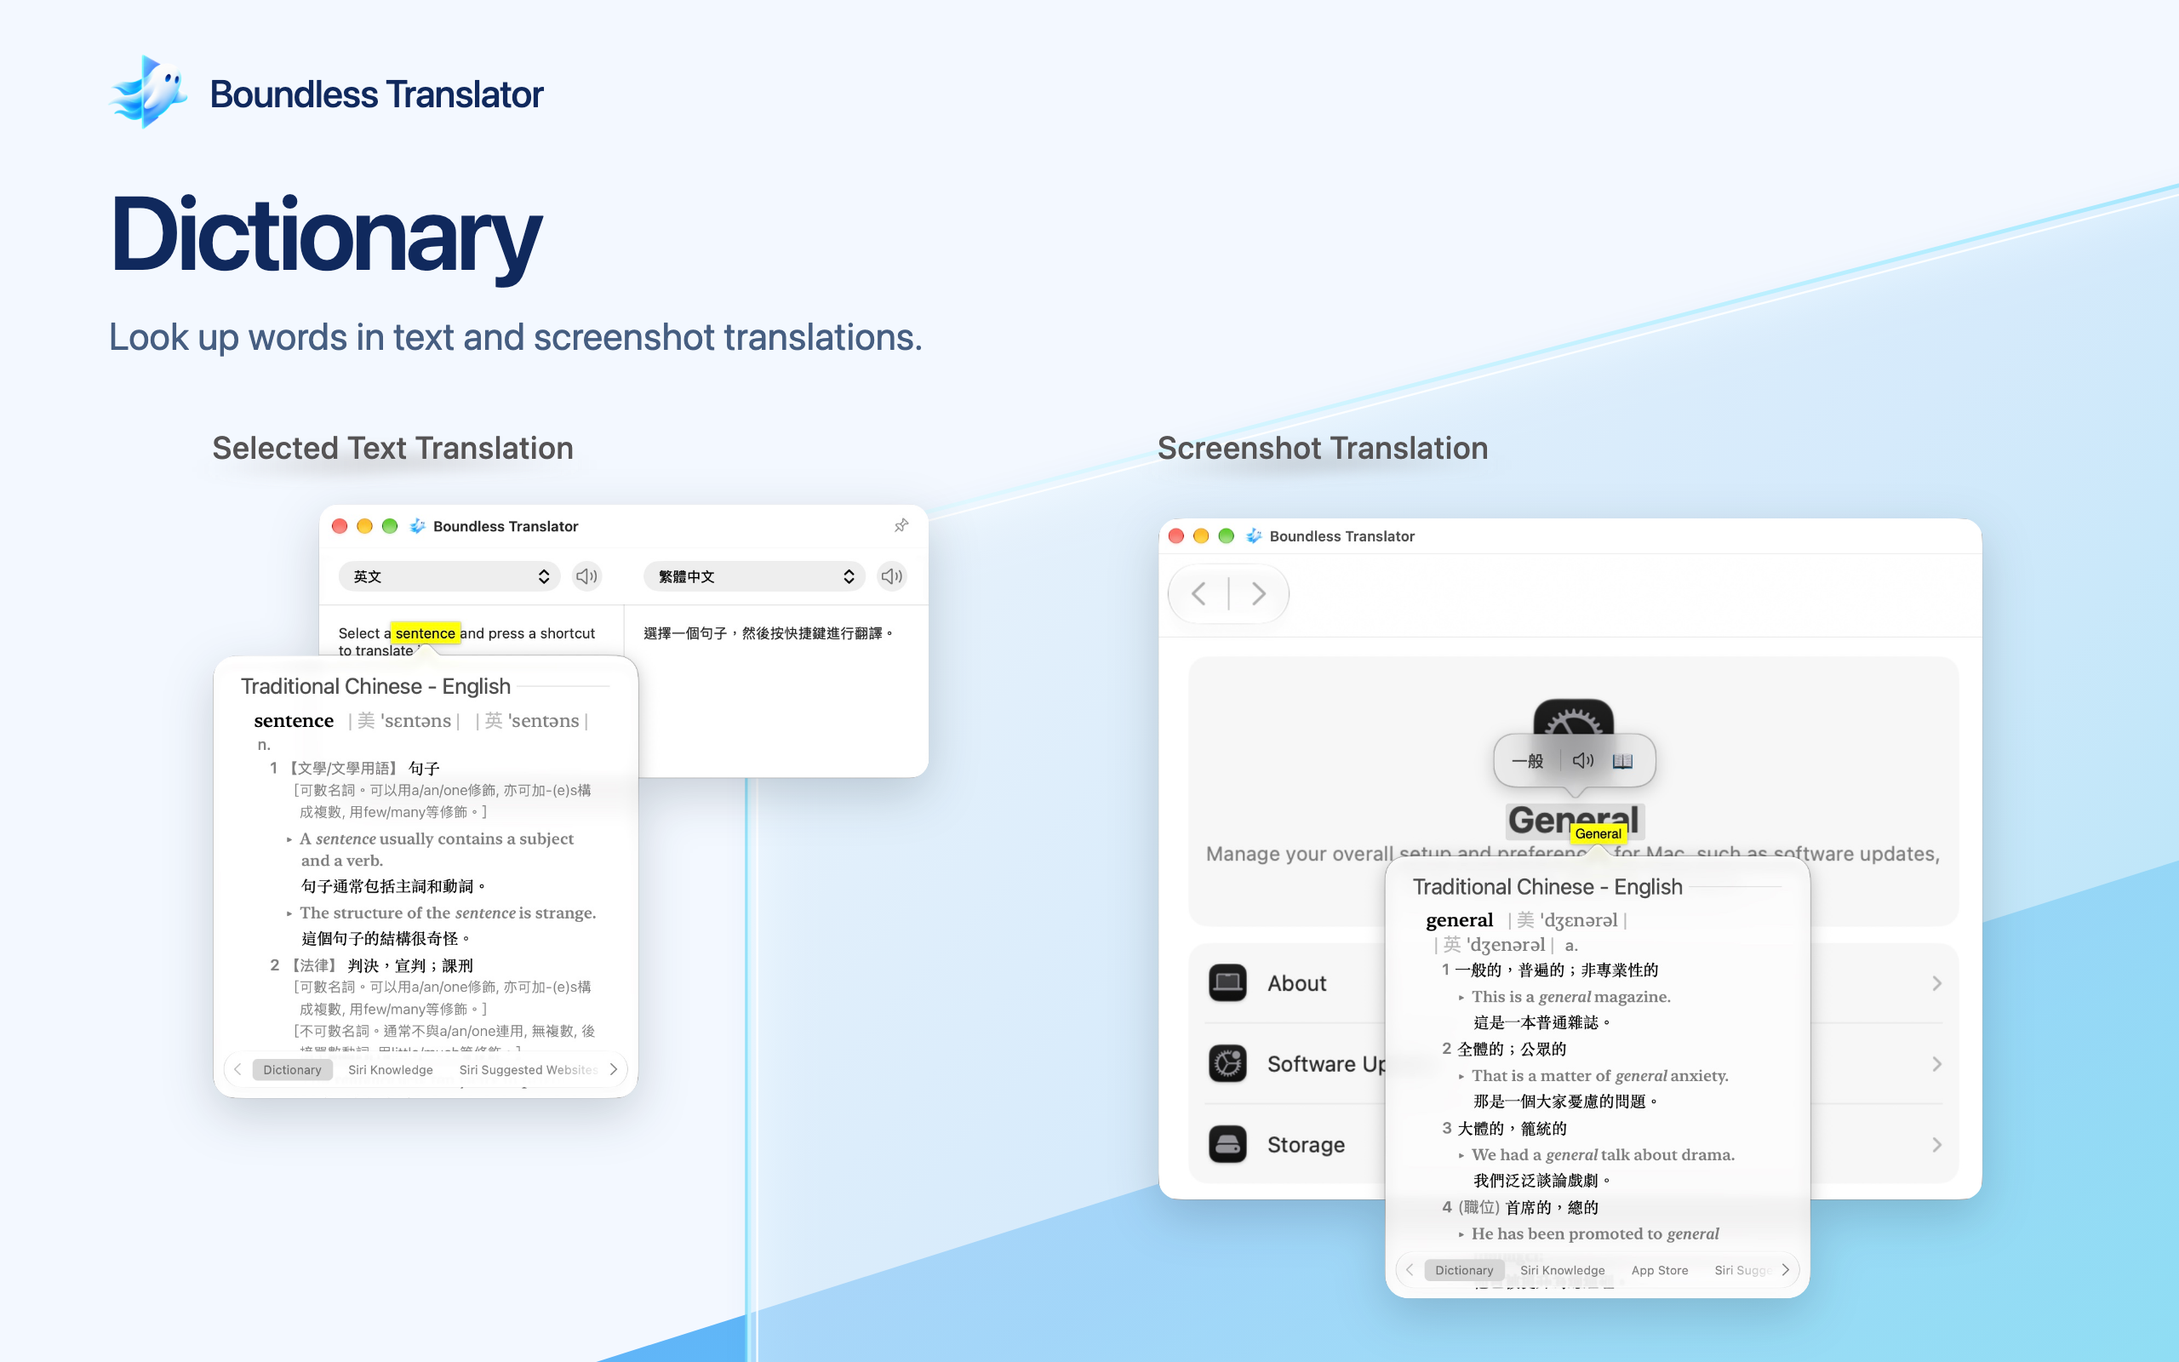
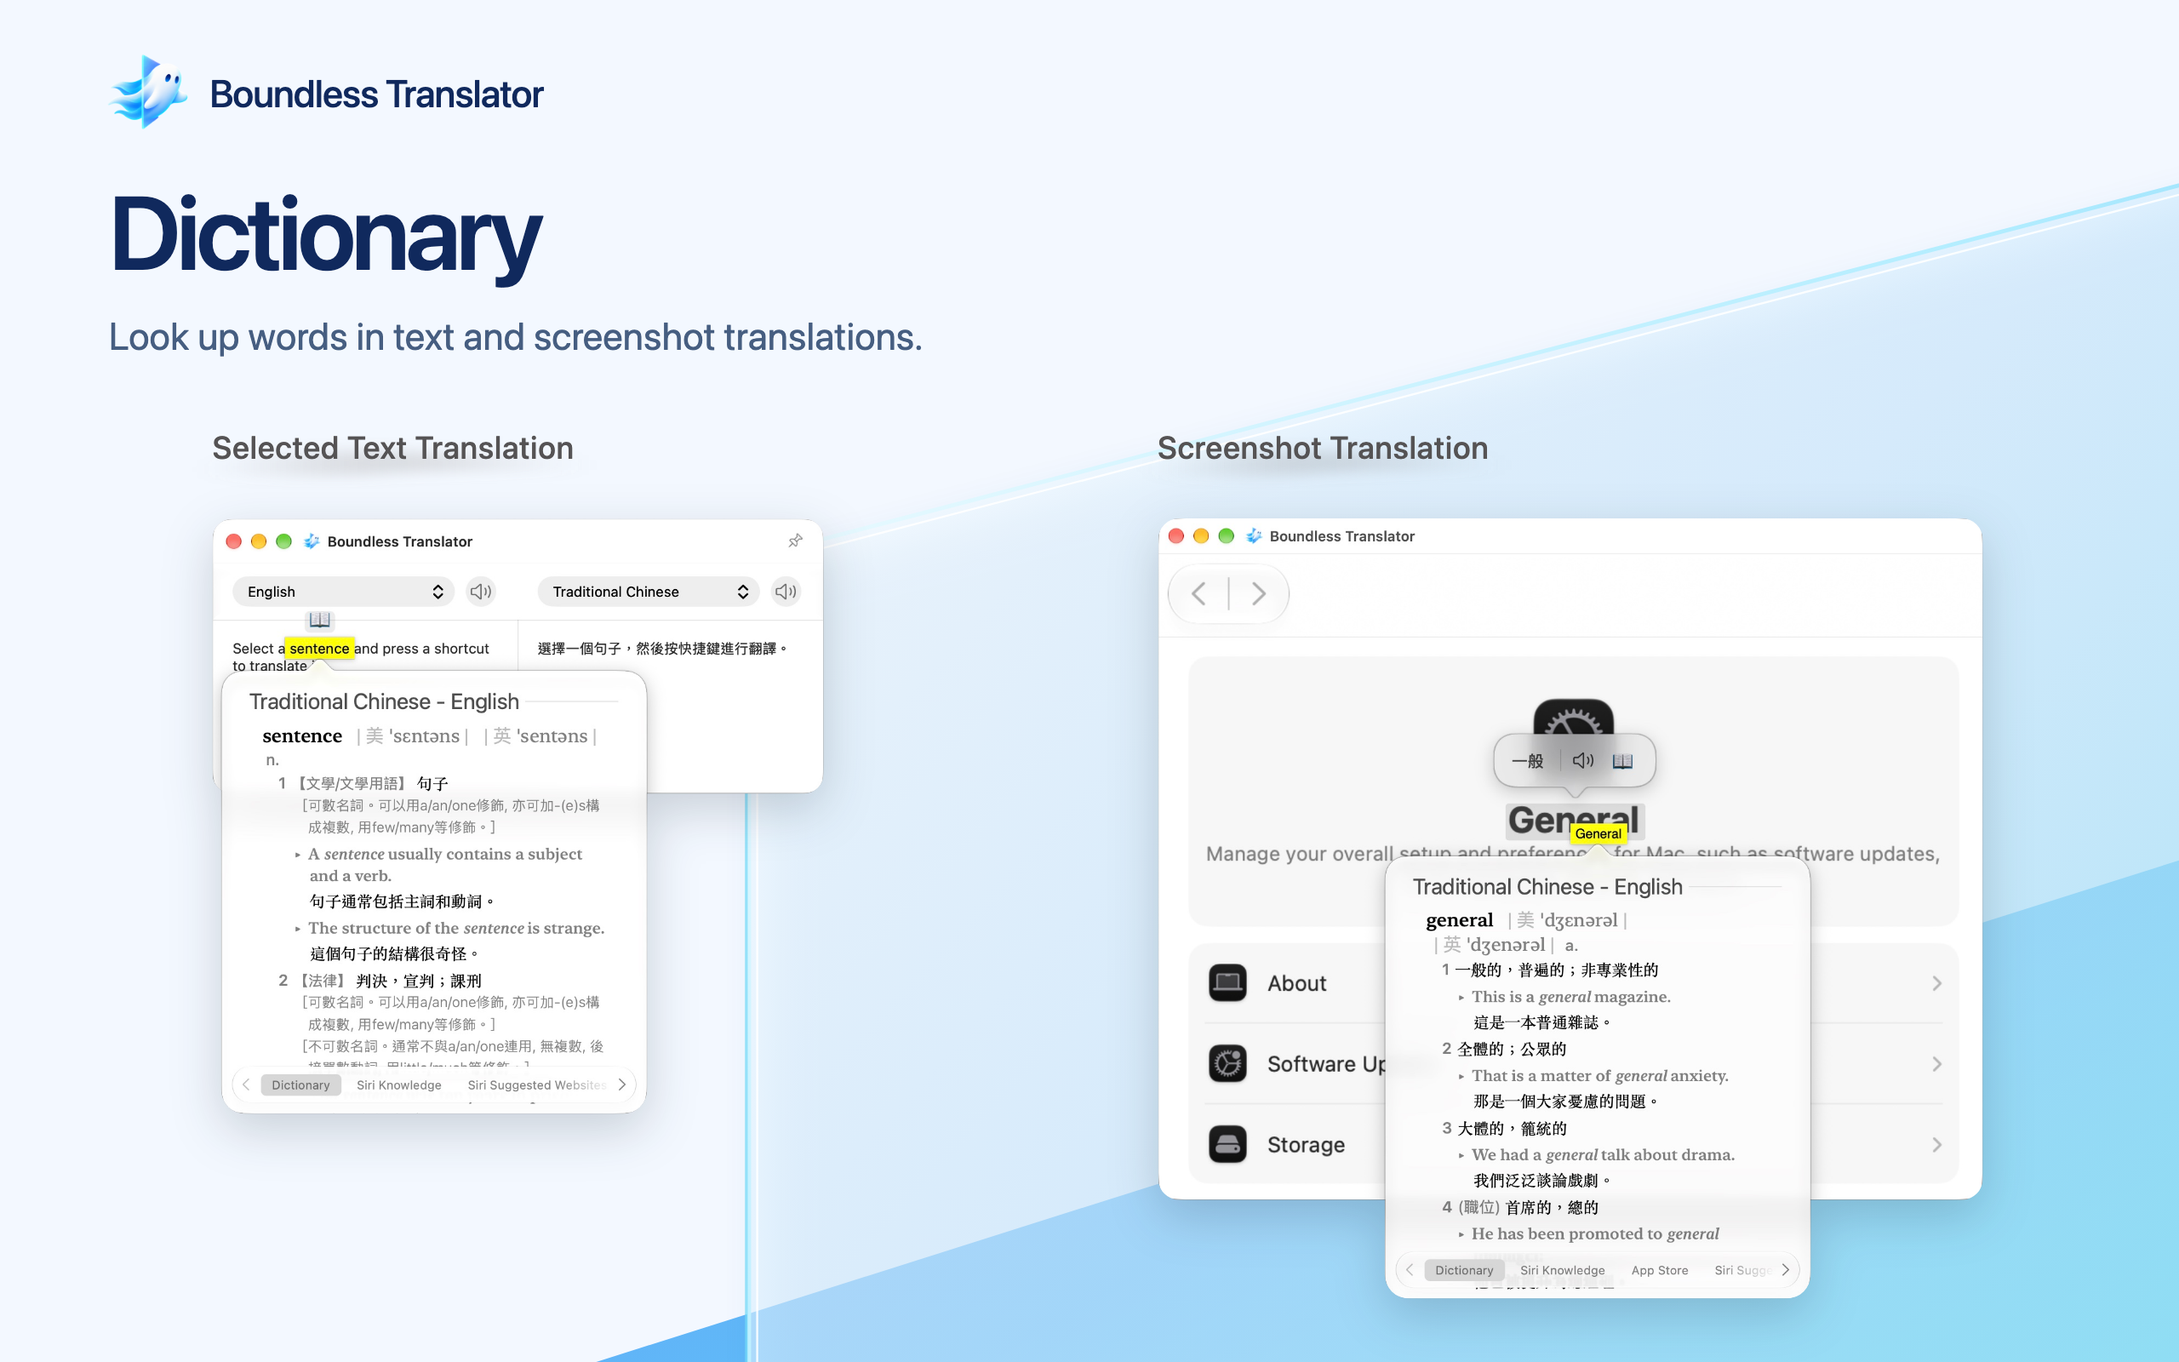
Refresh dictionary showcase screenshots and alignment

Changed region(s): [[0.0938, 0.375, 0.4375, 0.8438]]

diff --git a/docs/feature-showcase/layouts/glass/dictionary.html b/docs/feature-showcase/layouts/glass/dictionary.html
@@ -82,18 +82,18 @@ header p {font-size:28px;font-weight:400;line-height:1.4;letter-spacing:normal;c
 <defs><linearGradient id="wash-156"><stop offset="0.0" stop-color="#87817e" stop-opacity="0.0000"/><stop offset="0.041666666666666664" stop-color="#87817e" stop-opacity="0.0092"/><stop offset="0.08333333333333333" stop-color="#87817e" stop-opacity="0.0276"/><stop offset="0.125" stop-color="#87817e" stop-opacity="0.0516"/><stop offset="0.16666666666666666" stop-color="#87817e" stop-opacity="0.0792"/><stop offset="0.20833333333333334" stop-color="#87817e" stop-opacity="0.1085"/><stop offset="0.25" stop-color="#87817e" stop-opacity="0.1378"/><stop offset="0.2916666666666667" stop-color="#87817e" stop-opacity="0.1657"/><stop offset="0.3333333333333333" stop-color="#87817e" stop-opacity="0.1907"/><stop offset="0.375" stop-color="#87817e" stop-opacity="0.2114"/><stop offset="0.4166666666666667" stop-color="#87817e" stop-opacity="0.2270"/><stop offset="0.4583333333333333" stop-color="#87817e" stop-opacity="0.2367"/><stop offset="0.5" stop-color="#87817e" stop-opacity="0.2400"/><stop offset="0.5416666666666666" stop-color="#87817e" stop-opacity="0.2367"/><stop offset="0.5833333333333334" stop-color="#87817e" stop-opacity="0.2270"/><stop offset="0.625" stop-color="#87817e" stop-opacity="0.2114"/><stop offset="0.6666666666666666" stop-color="#87817e" stop-opacity="0.1907"/><stop offset="0.7083333333333334" stop-color="#87817e" stop-opacity="0.1657"/><stop offset="0.75" stop-color="#87817e" stop-opacity="0.1378"/><stop offset="0.7916666666666666" stop-color="#87817e" stop-opacity="0.1085"/><stop offset="0.8333333333333334" stop-color="#87817e" stop-opacity="0.0792"/><stop offset="0.875" stop-color="#87817e" stop-opacity="0.0516"/><stop offset="0.9166666666666666" stop-color="#87817e" stop-opacity="0.0276"/><stop offset="0.9583333333333334" stop-color="#87817e" stop-opacity="0.0092"/><stop offset="1.0" stop-color="#87817e" stop-opacity="0.0000"/></linearGradient><filter id="soft-156" x="-10%" y="-100%" width="120%" height="300%"><feGaussianBlur stdDeviation="0 5"/></filter></defs>
 <path d="M0 20 Q90 6 175 10 T320 15 L320 24 Q215 22 150 26 T0 26 Z" fill="url(#wash-156)" filter="url(#soft-156)"/></svg></div><div class="context-tag" style="left:850px">Screenshot Translation<svg class="caption-wash" viewBox="0 0 320 33" preserveAspectRatio="none" aria-hidden="true">
 <defs><linearGradient id="wash-850"><stop offset="0.0" stop-color="#87817e" stop-opacity="0.0000"/><stop offset="0.041666666666666664" stop-color="#87817e" stop-opacity="0.0092"/><stop offset="0.08333333333333333" stop-color="#87817e" stop-opacity="0.0276"/><stop offset="0.125" stop-color="#87817e" stop-opacity="0.0516"/><stop offset="0.16666666666666666" stop-color="#87817e" stop-opacity="0.0792"/><stop offset="0.20833333333333334" stop-color="#87817e" stop-opacity="0.1085"/><stop offset="0.25" stop-color="#87817e" stop-opacity="0.1378"/><stop offset="0.2916666666666667" stop-color="#87817e" stop-opacity="0.1657"/><stop offset="0.3333333333333333" stop-color="#87817e" stop-opacity="0.1907"/><stop offset="0.375" stop-color="#87817e" stop-opacity="0.2114"/><stop offset="0.4166666666666667" stop-color="#87817e" stop-opacity="0.2270"/><stop offset="0.4583333333333333" stop-color="#87817e" stop-opacity="0.2367"/><stop offset="0.5" stop-color="#87817e" stop-opacity="0.2400"/><stop offset="0.5416666666666666" stop-color="#87817e" stop-opacity="0.2367"/><stop offset="0.5833333333333334" stop-color="#87817e" stop-opacity="0.2270"/><stop offset="0.625" stop-color="#87817e" stop-opacity="0.2114"/><stop offset="0.6666666666666666" stop-color="#87817e" stop-opacity="0.1907"/><stop offset="0.7083333333333334" stop-color="#87817e" stop-opacity="0.1657"/><stop offset="0.75" stop-color="#87817e" stop-opacity="0.1378"/><stop offset="0.7916666666666666" stop-color="#87817e" stop-opacity="0.1085"/><stop offset="0.8333333333333334" stop-color="#87817e" stop-opacity="0.0792"/><stop offset="0.875" stop-color="#87817e" stop-opacity="0.0516"/><stop offset="0.9166666666666666" stop-color="#87817e" stop-opacity="0.0276"/><stop offset="0.9583333333333334" stop-color="#87817e" stop-opacity="0.0092"/><stop offset="1.0" stop-color="#87817e" stop-opacity="0.0000"/></linearGradient><filter id="soft-850" x="-10%" y="-100%" width="120%" height="300%"><feGaussianBlur stdDeviation="0 5"/></filter></defs>
-<path d="M0 20 Q90 6 175 10 T320 15 L320 24 Q215 22 150 26 T0 26 Z" fill="url(#wash-850)" filter="url(#soft-850)"/></svg></div><svg class="window-cutout" data-source="3" viewBox="0 0 1368 1122" style="left:145px;top:365px;width:547.2px;height:448.8px" aria-label="Selected Text Translation and its dictionary result">
+<path d="M0 20 Q90 6 175 10 T320 15 L320 24 Q215 22 150 26 T0 26 Z" fill="url(#wash-850)" filter="url(#soft-850)"/></svg></div><svg class="window-cutout" data-source="selected-text" viewBox="9 70 1122 1104" style="left:156px;top:380.6px;width:448.8px;height:441.6px" aria-label="Selected Text Translation and its dictionary result">
 <defs><clipPath id="selected-windows">
-<rect x="223" y="13" width="1120" height="503" rx="36"/>
-<rect x="28" y="291" width="782" height="813" rx="44"/>
-<path d="M389 293 L408 276 Q420 263 432 276 L451 293 Z"/>
+<rect x="9" y="70" width="1122" height="504" rx="36"/>
+<rect x="25" y="348" width="782" height="814" rx="44"/>
+<path d="M175 350 L193 334 Q205 322 217 334 L237 350 Z"/>
 </clipPath></defs>
-<image href="../../assets/screenshots/dictionary/dictionary3.jpg" width="1368" height="1122" clip-path="url(#selected-windows)"/>
-</svg><svg class="window-cutout" data-source="5" viewBox="0 0 1622 1514" style="left:830px;top:365px;width:648.8px;height:605.6px" aria-label="General screenshot, selected word and complete dictionary result">
+<image href="../../assets/screenshots/dictionary/dictionary_selected_text.jpg" width="1208" height="1234" clip-path="url(#selected-windows)"/>
+</svg><svg class="window-cutout" data-source="screenshot" viewBox="0 0 1622 1514" style="left:830px;top:365px;width:648.8px;height:605.6px" aria-label="General screenshot, selected word and complete dictionary result">
 <defs><clipPath id="general-windows">
 <rect x="51" y="39" width="1514" height="1251" rx="39"/>
 <rect x="467" y="658" width="782" height="813" rx="44"/>
 <path d="M826 660 L846 642 Q859 628 871 642 L890 660 Z"/>
 </clipPath></defs>
-<image href="../../assets/screenshots/dictionary/dictionary5.jpg" width="1622" height="1514" clip-path="url(#general-windows)"/>
+<image href="../../assets/screenshots/dictionary/dictionary_screenshot.jpg" width="1622" height="1514" clip-path="url(#general-windows)"/>
 </svg></section></html>

diff --git a/docs/feature-showcase/layouts/space-gray/dictionary.html b/docs/feature-showcase/layouts/space-gray/dictionary.html
@@ -82,18 +82,18 @@ header p {font-size:28px;font-weight:400;line-height:1.4;letter-spacing:normal;c
 <defs><linearGradient id="wash-156"><stop offset="0.0" stop-color="#d8d5d3" stop-opacity="0.0000"/><stop offset="0.041666666666666664" stop-color="#d8d5d3" stop-opacity="0.0069"/><stop offset="0.08333333333333333" stop-color="#d8d5d3" stop-opacity="0.0207"/><stop offset="0.125" stop-color="#d8d5d3" stop-opacity="0.0387"/><stop offset="0.16666666666666666" stop-color="#d8d5d3" stop-opacity="0.0594"/><stop offset="0.20833333333333334" stop-color="#d8d5d3" stop-opacity="0.0814"/><stop offset="0.25" stop-color="#d8d5d3" stop-opacity="0.1034"/><stop offset="0.2916666666666667" stop-color="#d8d5d3" stop-opacity="0.1243"/><stop offset="0.3333333333333333" stop-color="#d8d5d3" stop-opacity="0.1430"/><stop offset="0.375" stop-color="#d8d5d3" stop-opacity="0.1586"/><stop offset="0.4166666666666667" stop-color="#d8d5d3" stop-opacity="0.1703"/><stop offset="0.4583333333333333" stop-color="#d8d5d3" stop-opacity="0.1775"/><stop offset="0.5" stop-color="#d8d5d3" stop-opacity="0.1800"/><stop offset="0.5416666666666666" stop-color="#d8d5d3" stop-opacity="0.1775"/><stop offset="0.5833333333333334" stop-color="#d8d5d3" stop-opacity="0.1703"/><stop offset="0.625" stop-color="#d8d5d3" stop-opacity="0.1586"/><stop offset="0.6666666666666666" stop-color="#d8d5d3" stop-opacity="0.1430"/><stop offset="0.7083333333333334" stop-color="#d8d5d3" stop-opacity="0.1243"/><stop offset="0.75" stop-color="#d8d5d3" stop-opacity="0.1034"/><stop offset="0.7916666666666666" stop-color="#d8d5d3" stop-opacity="0.0814"/><stop offset="0.8333333333333334" stop-color="#d8d5d3" stop-opacity="0.0594"/><stop offset="0.875" stop-color="#d8d5d3" stop-opacity="0.0387"/><stop offset="0.9166666666666666" stop-color="#d8d5d3" stop-opacity="0.0207"/><stop offset="0.9583333333333334" stop-color="#d8d5d3" stop-opacity="0.0069"/><stop offset="1.0" stop-color="#d8d5d3" stop-opacity="0.0000"/></linearGradient><filter id="soft-156" x="-10%" y="-100%" width="120%" height="300%"><feGaussianBlur stdDeviation="0 5"/></filter></defs>
 <path d="M0 20 Q90 6 175 10 T320 15 L320 24 Q215 22 150 26 T0 26 Z" fill="url(#wash-156)" filter="url(#soft-156)"/></svg></div><div class="context-tag" style="left:850px">Screenshot Translation<svg class="caption-wash" viewBox="0 0 320 33" preserveAspectRatio="none" aria-hidden="true">
 <defs><linearGradient id="wash-850"><stop offset="0.0" stop-color="#d8d5d3" stop-opacity="0.0000"/><stop offset="0.041666666666666664" stop-color="#d8d5d3" stop-opacity="0.0069"/><stop offset="0.08333333333333333" stop-color="#d8d5d3" stop-opacity="0.0207"/><stop offset="0.125" stop-color="#d8d5d3" stop-opacity="0.0387"/><stop offset="0.16666666666666666" stop-color="#d8d5d3" stop-opacity="0.0594"/><stop offset="0.20833333333333334" stop-color="#d8d5d3" stop-opacity="0.0814"/><stop offset="0.25" stop-color="#d8d5d3" stop-opacity="0.1034"/><stop offset="0.2916666666666667" stop-color="#d8d5d3" stop-opacity="0.1243"/><stop offset="0.3333333333333333" stop-color="#d8d5d3" stop-opacity="0.1430"/><stop offset="0.375" stop-color="#d8d5d3" stop-opacity="0.1586"/><stop offset="0.4166666666666667" stop-color="#d8d5d3" stop-opacity="0.1703"/><stop offset="0.4583333333333333" stop-color="#d8d5d3" stop-opacity="0.1775"/><stop offset="0.5" stop-color="#d8d5d3" stop-opacity="0.1800"/><stop offset="0.5416666666666666" stop-color="#d8d5d3" stop-opacity="0.1775"/><stop offset="0.5833333333333334" stop-color="#d8d5d3" stop-opacity="0.1703"/><stop offset="0.625" stop-color="#d8d5d3" stop-opacity="0.1586"/><stop offset="0.6666666666666666" stop-color="#d8d5d3" stop-opacity="0.1430"/><stop offset="0.7083333333333334" stop-color="#d8d5d3" stop-opacity="0.1243"/><stop offset="0.75" stop-color="#d8d5d3" stop-opacity="0.1034"/><stop offset="0.7916666666666666" stop-color="#d8d5d3" stop-opacity="0.0814"/><stop offset="0.8333333333333334" stop-color="#d8d5d3" stop-opacity="0.0594"/><stop offset="0.875" stop-color="#d8d5d3" stop-opacity="0.0387"/><stop offset="0.9166666666666666" stop-color="#d8d5d3" stop-opacity="0.0207"/><stop offset="0.9583333333333334" stop-color="#d8d5d3" stop-opacity="0.0069"/><stop offset="1.0" stop-color="#d8d5d3" stop-opacity="0.0000"/></linearGradient><filter id="soft-850" x="-10%" y="-100%" width="120%" height="300%"><feGaussianBlur stdDeviation="0 5"/></filter></defs>
-<path d="M0 20 Q90 6 175 10 T320 15 L320 24 Q215 22 150 26 T0 26 Z" fill="url(#wash-850)" filter="url(#soft-850)"/></svg></div><svg class="window-cutout" data-source="3" viewBox="0 0 1368 1122" style="left:145px;top:365px;width:547.2px;height:448.8px" aria-label="Selected Text Translation and its dictionary result">
+<path d="M0 20 Q90 6 175 10 T320 15 L320 24 Q215 22 150 26 T0 26 Z" fill="url(#wash-850)" filter="url(#soft-850)"/></svg></div><svg class="window-cutout" data-source="selected-text" viewBox="9 70 1122 1104" style="left:156px;top:380.6px;width:448.8px;height:441.6px" aria-label="Selected Text Translation and its dictionary result">
 <defs><clipPath id="selected-windows">
-<rect x="223" y="13" width="1120" height="503" rx="36"/>
-<rect x="28" y="291" width="782" height="813" rx="44"/>
-<path d="M389 293 L408 276 Q420 263 432 276 L451 293 Z"/>
+<rect x="9" y="70" width="1122" height="504" rx="36"/>
+<rect x="25" y="348" width="782" height="814" rx="44"/>
+<path d="M175 350 L193 334 Q205 322 217 334 L237 350 Z"/>
 </clipPath></defs>
-<image href="../../assets/screenshots/dictionary/dictionary3.jpg" width="1368" height="1122" clip-path="url(#selected-windows)"/>
-</svg><svg class="window-cutout" data-source="5" viewBox="0 0 1622 1514" style="left:830px;top:365px;width:648.8px;height:605.6px" aria-label="General screenshot, selected word and complete dictionary result">
+<image href="../../assets/screenshots/dictionary/dictionary_selected_text.jpg" width="1208" height="1234" clip-path="url(#selected-windows)"/>
+</svg><svg class="window-cutout" data-source="screenshot" viewBox="0 0 1622 1514" style="left:830px;top:365px;width:648.8px;height:605.6px" aria-label="General screenshot, selected word and complete dictionary result">
 <defs><clipPath id="general-windows">
 <rect x="51" y="39" width="1514" height="1251" rx="39"/>
 <rect x="467" y="658" width="782" height="813" rx="44"/>
 <path d="M826 660 L846 642 Q859 628 871 642 L890 660 Z"/>
 </clipPath></defs>
-<image href="../../assets/screenshots/dictionary/dictionary5.jpg" width="1622" height="1514" clip-path="url(#general-windows)"/>
+<image href="../../assets/screenshots/dictionary/dictionary_screenshot.jpg" width="1622" height="1514" clip-path="url(#general-windows)"/>
 </svg></section></html>

diff --git a/TODO.md b/TODO.md
@@ -36,7 +36,7 @@
 
 - [x] 功能介紹素材集中至 `docs/feature-showcase/`：還原暫存內容，移入示範 PDF、來源截圖與背景參考圖，更新目錄說明及引用。
 - [ ] 最後確認 Settings 功能介紹圖；選字翻譯暫定同尺寸自然構圖，字典採石墨灰柔和底色版。狀態見 `docs/feature-showcase/output/glass/README.md`。
-- [x] 字典功能介紹採石墨灰情境標籤與柔和底色，使用 Dictionary 3、5；保留完整查詢文字及字典視窗。可編輯來源在 `docs/feature-showcase/layouts/`。
+- [x] 字典功能介紹採石墨灰情境標籤與柔和底色，使用 `dictionary_selected_text.jpg` 與 `dictionary_screenshot.jpg`；保留書本 icon、完整查詢文字及字典視窗，選字翻譯視窗左緣對齊小標題。可編輯來源在 `docs/feature-showcase/layouts/`。
 - [x] 截圖功能介紹採暖金框、圖外 Take a screenshot 灰色小標題、中央精靈與石墨灰情境標籤；Can’t select it 第一頁、General 第二頁。完整／後半段光束兩版都保留。
 - [ ] 最後選定截圖功能介紹使用完整光束或後半段光束；兩版目前皆保留。
 - [x] 選字翻譯採 VS Code 第一頁、Preview 第二頁的同尺寸自然構圖，不放精靈，暖黃短斜直箭頭由左上指向右下。保留 Mac 選單列、App 工具列及完整翻譯視窗。

diff --git a/docs/feature-showcase/layouts/dictionary.md b/docs/feature-showcase/layouts/dictionary.md
@@ -1,6 +1,6 @@
 # 字典功能介紹來源
 
-只保留目前石墨灰版的兩份可編輯排版及 Dictionary 3、5 原始截圖。柔和模糊底色、字體與視窗位置都寫在 HTML 裡，不需要先產生舊配色版。
+只保留目前石墨灰版的兩份可編輯排版及 `dictionary_selected_text.jpg`、`dictionary_screenshot.jpg` 原始截圖。柔和模糊底色、字體與視窗位置都寫在 HTML 裡，不需要先產生舊配色版。
 
 | 主題 | 排版 | 最終成圖 |
 | --- | --- | --- |
@@ -8,3 +8,5 @@
 | 太空灰 | [HTML](space-gray/dictionary.html) | [PNG](../output/space-gray/03-dictionary-graphite.png) |
 
 原始截圖在 `../assets/screenshots/dictionary/`。共用產圖入口為 [render.cjs](render.cjs)，直接輸出到 `output/glass/`／`output/space-gray/`，不另存中間圖片。
+
+選字翻譯使用保留書本 icon、字典結果靠右的新截圖；翻譯視窗左緣對齊 Selected Text Translation 小標題。按視窗外緣裁切多餘空白，兩側字典視窗維持相同縮放比例，兩側主視窗頂端對齊。
